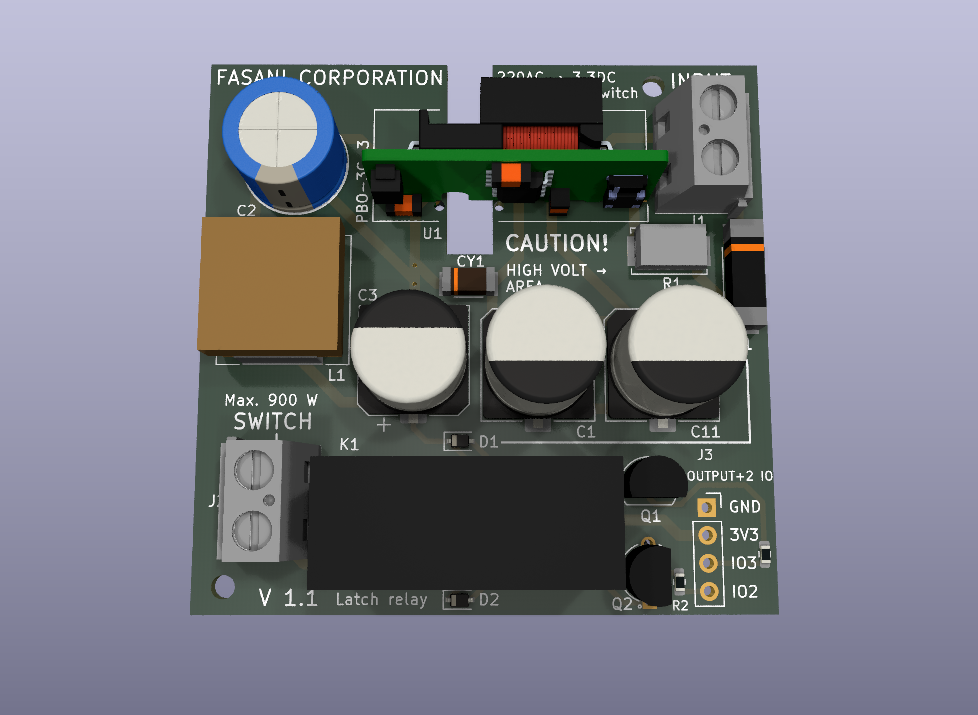
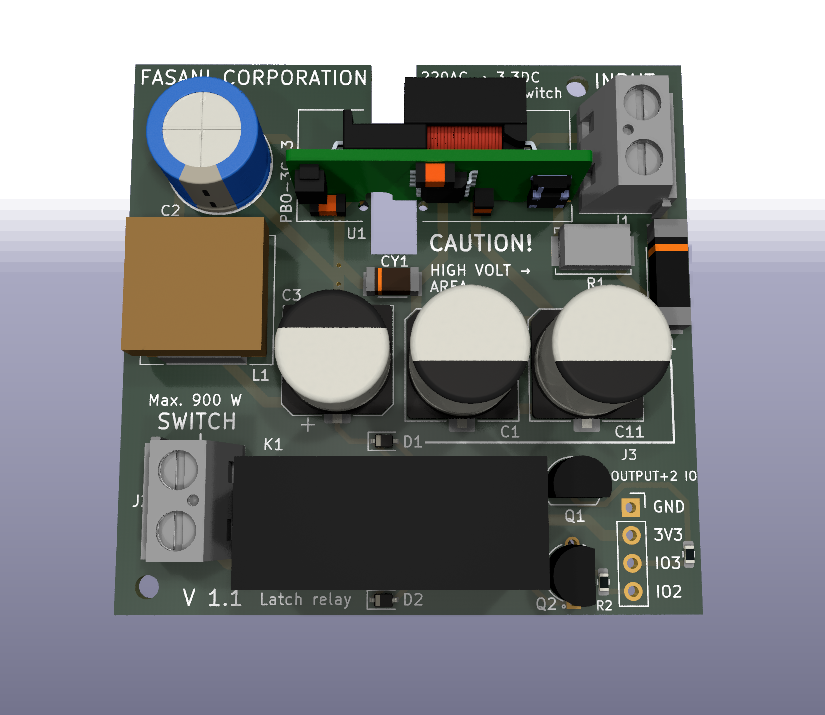
Update Hardware images

diff --git a/README.md b/README.md
@@ -25,8 +25,10 @@ It consists in two PCBs and the display using C3 as Microcontroller:
 3. **The 2.7" display** with touch [GDEY027T91-T](https://github.com/martinberlin/cale-idf/wiki/Good-Display-gdey027T91)
 
 ![C3 controller](https://user-images.githubusercontent.com/2692928/218306248-25cc7c8f-0f09-4286-9bbc-a478964cdd3d.png)
+  
+![54x54mm AC-3.3 DC PCBview](Hardware/220AC-mini-C3-board/3D/img/PCB-top-view.png)
 
-![54x54mm AC-3.3 DC with Latch relay](Hardware/220AC-mini-C3-board/3D/PCB-top-view.png)
+![54x54mm AC-3.3 DC with Latch relay](Hardware/220AC-mini-C3-board/3D/img/3d-top.png)
 
 ![2.7 touch FocalTech](https://www.good-display.com/repository/image/106fd348-0392-42a0-bdef-cf9f7e4926bb.jpg)
 
